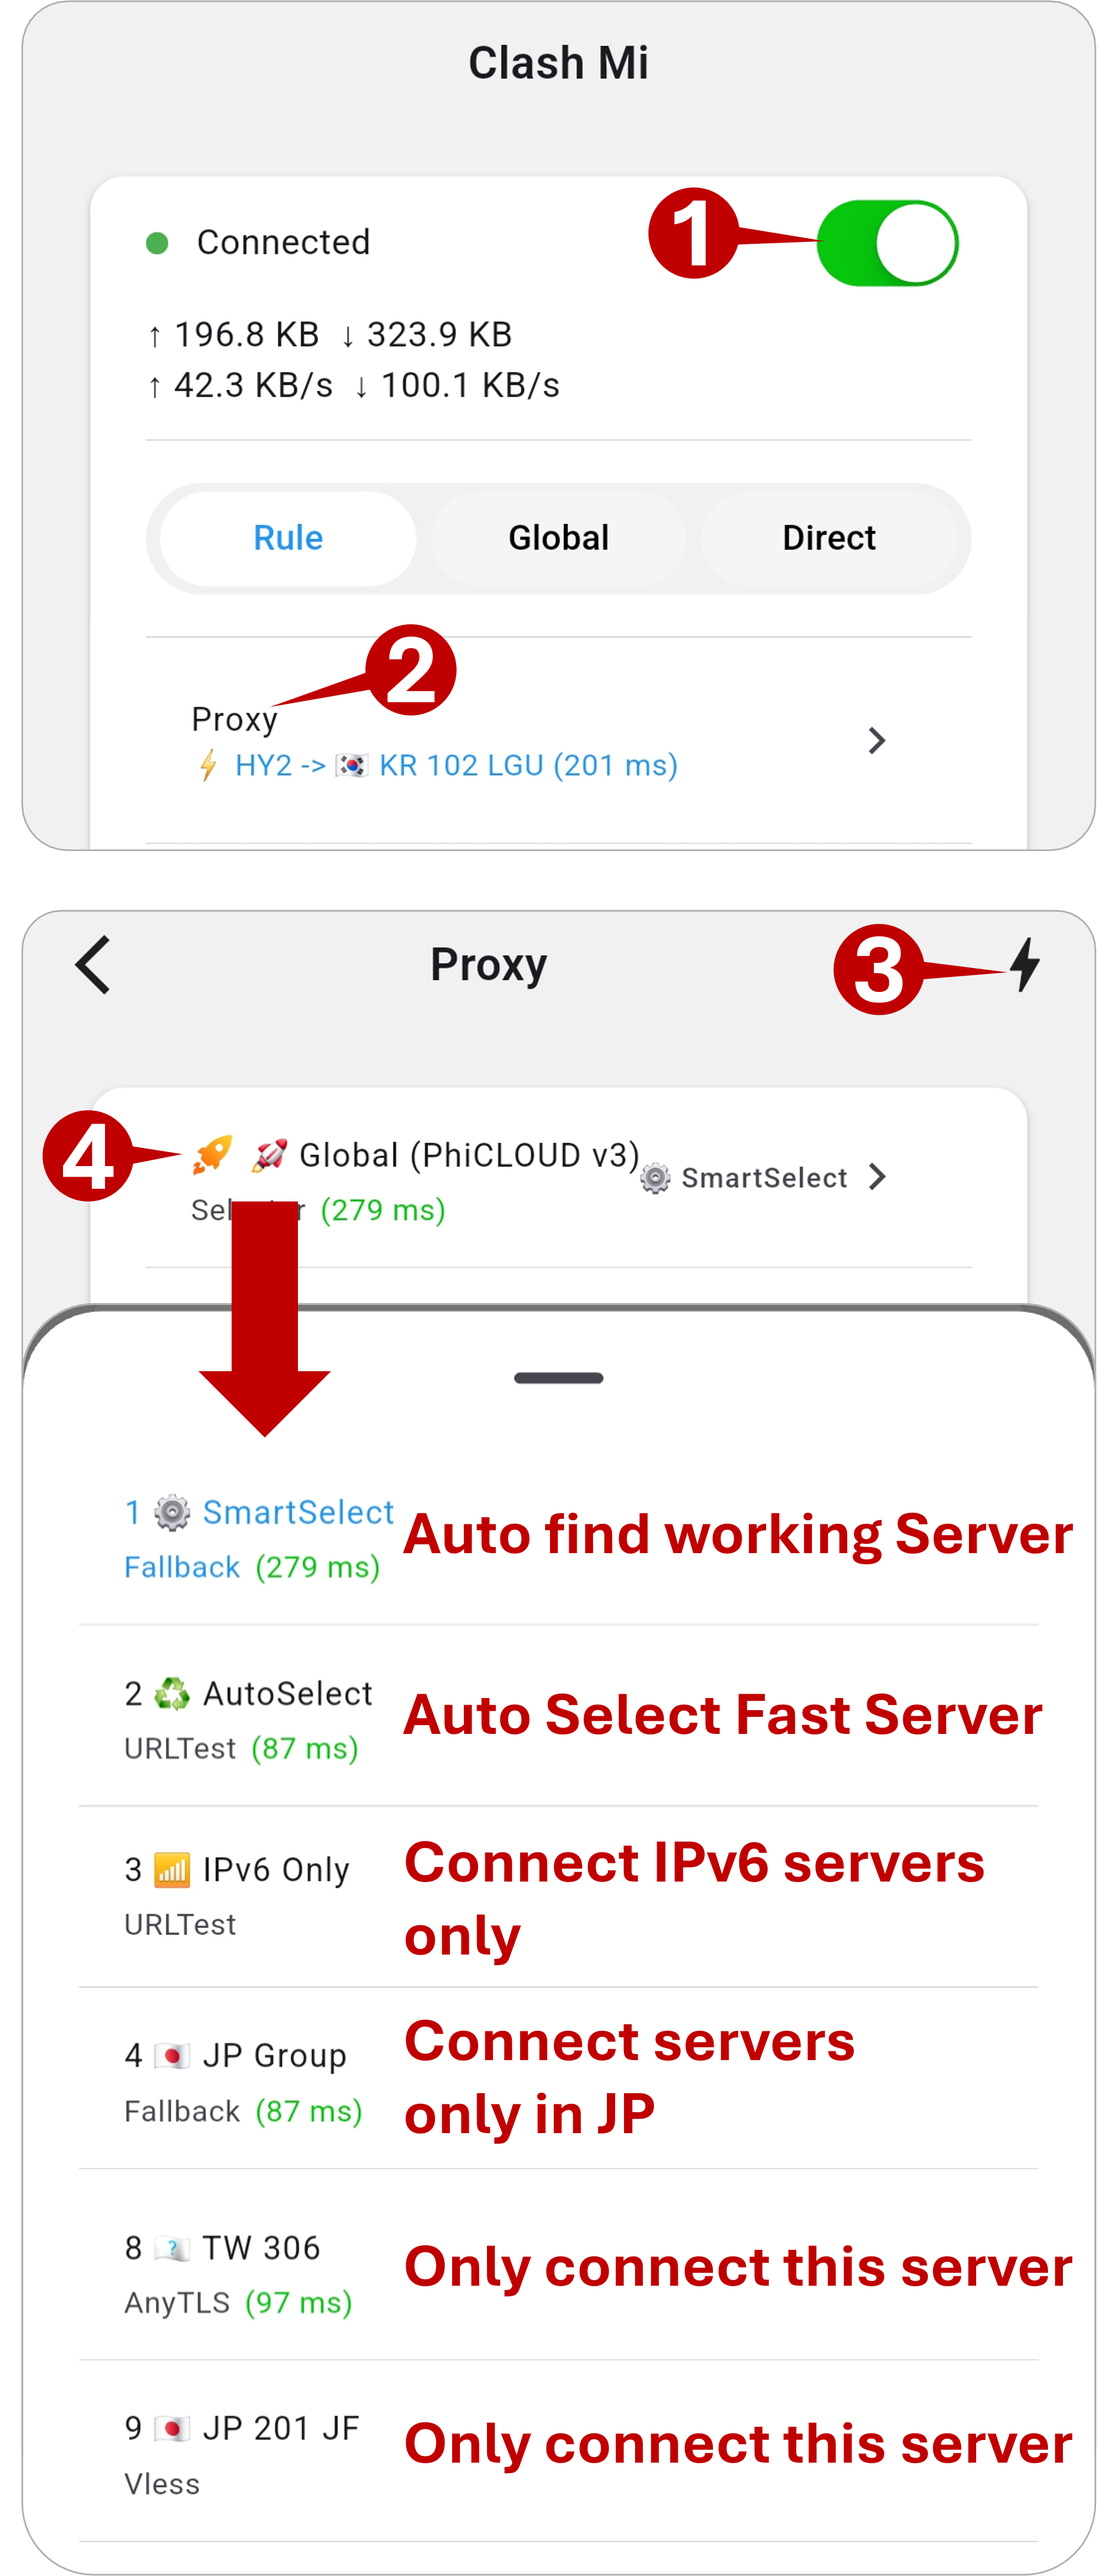
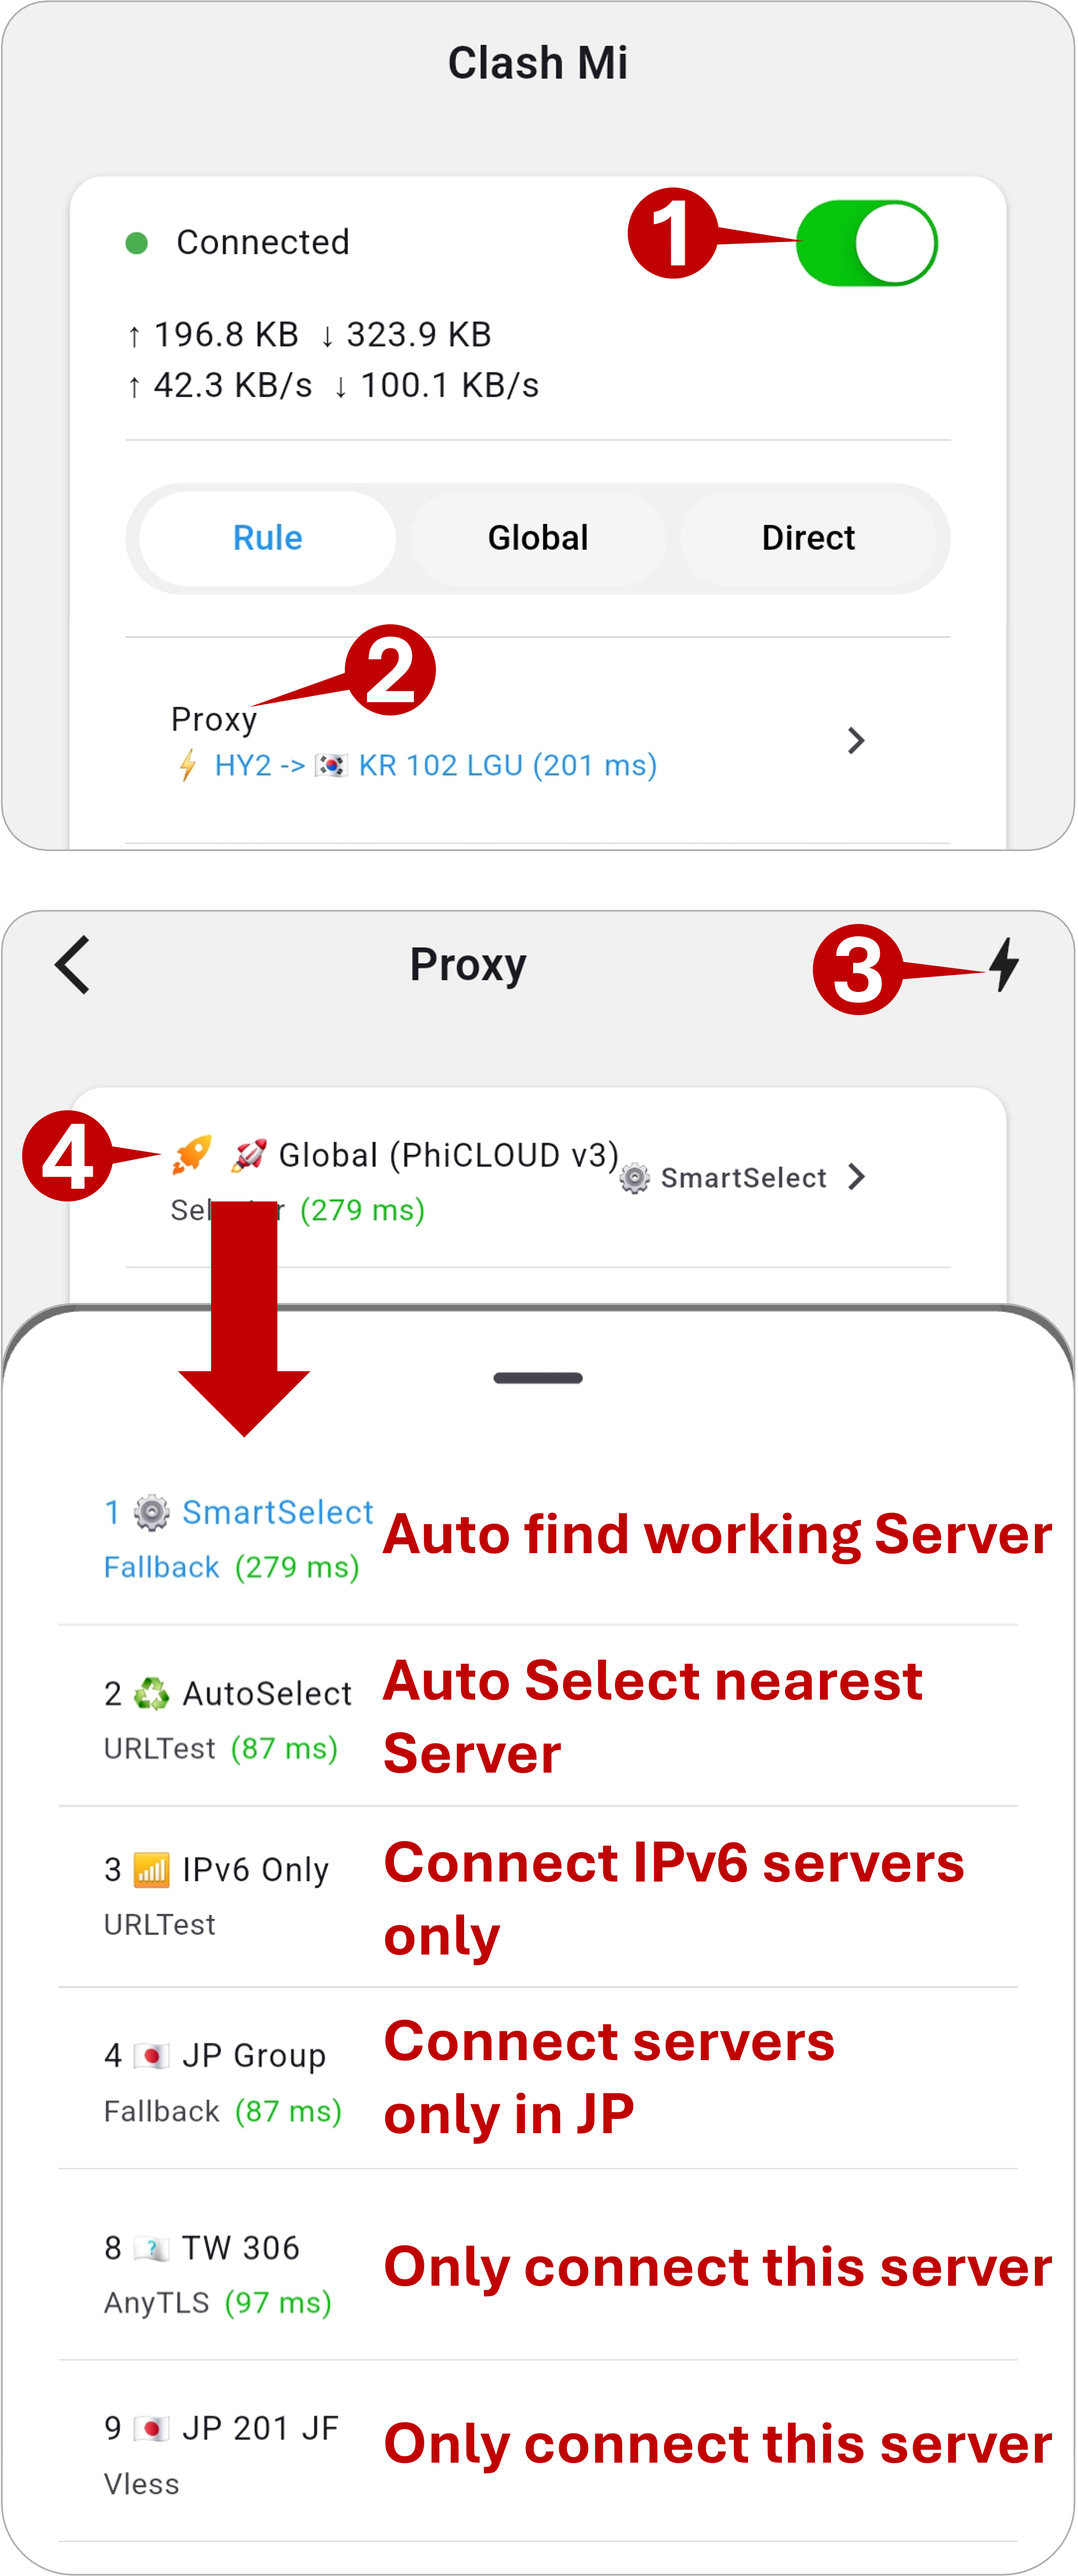
update

diff --git a/help_guide.html b/help_guide.html
@@ -142,7 +142,7 @@
 		const serverChangeBottomNoteText = `
 			<p>				
 				Notes: <br>
-				<b>TikTok</b> and <b>Ai services</b> <i style="font-size:15px;">(ChatGPT, Claude, Gemeini, etc.)</i> are <b style="color:#cb0000;">Not available</b> in <b>Hong Kong</b> <br>
+				<b>TikTok</b> and <b>Ai services</b> <i style="font-size:13px; color:inherit;">(ChatGPT, Claude, Gemeini, etc.)</i> are <b style="color:#cb0000;">Not Available</b> in <b>Hong Kong</b> <br>
 			</p>
 		`;
 
@@ -162,7 +162,7 @@
 								<ul class="no-dots-list">
 									<li>&nbsp;</li>
 									<li><b>⚙SmartSelect</b> –– Auto find working Server <b style="color:green;">(recommended)</b></li>	
-									<li><b>♻AutoSelect</b> ––– Auto select fast server</li>
+									<li><b>♻AutoSelect</b> ––– Auto select nearest server</li>
 									<li><b>📶IPv6 Group</b> ––– only connect IPv6 servers</li>
 									<li><b>Country Group</b> –– Connect server only in specific country</li>
 									<li><b>Country Server</b> –– only connect with one server</li>		
@@ -171,6 +171,7 @@
 									<li><b>Important Notes:</b></li>
 									<li><b>Manually selected server</b> will <b style="color:#cb0000;">not change</b> automatically.</li>
 									<li><b>TikTok</b>, <b>ChatGPT</b> and <b>Claude</b> are <b style="color:#cb0000;">not available</b> in <b>Hong Kong</b>.</li>
+									<li><b>TikTok</b> and <b>Ai services</b> <i style="font-size:13px; color:inherit;">(ChatGPT, Claude, Gemeini, etc.)</i> are <b style="color:#cb0000;">Not Available</b> in <b>Hong Kong</b></li>
 								</ul>
 							</div>
 						</details>
@@ -237,7 +238,7 @@
 								<ul class="no-dots-list">						
 									<li><b>Server Selection for ChatGPT/Claude/Gemini/Copilot only</b>:</li>
 									<li><b>US Group</b> –– <b style="color:green;">(recommended)</b></li>	
-									<li><b>♻AutoSelect</b> ––– Auto select fast available server</li>
+									<li><b>♻AutoSelect</b> ––– Auto select nearest server</li>
 									<li><b>Country Server</b> –– only connect with one server</li>						
 									<li>&nbsp;</li>
 									<li><b>Important Notes:</b></li>

diff --git a/app_guide.html b/app_guide.html
@@ -133,7 +133,7 @@
 								<ul class="no-dots-list">
 									<li>&nbsp;</li>
 									<li><b>⚙SmartSelect</b> –– Auto find working Server <b style="color:green;">(recommended)</b></li>	
-									<li><b>♻AutoSelect</b> ––– Auto select fast server</li>
+									<li><b>♻AutoSelect</b> ––– Auto select nearest server</li>
 									<li><b>📶IPv6 Only</b> –––– only connect IPv6 servers</li>
 									<li><b>Country Group</b> –– Connect server only in specific country</li>
 									<li><b>Country Server</b> –– only connect with one server</li>		
@@ -141,7 +141,7 @@
 									<li>&nbsp;</li>
 									<li><b>Important Notes:</b></li>
 									<li><b>Manually selected server</b> will <b style="color:#cb0000;">not change</b> automatically.</li>
-									<li><b>TikTok</b>, <b>ChatGPT</b> and <b>Claude</b> are <b style="color:#cb0000;">not available</b> in <b>Hong Kong</b>.</li>
+									<li><b>TikTok</b> and <b>Ai services</b> <i style="font-size:13px; color:inherit;">(ChatGPT, Claude, Gemeini, etc.)</i> are <b style="color:#cb0000;">Not Available</b> in <b>Hong Kong</b></li>
 								</ul>
 							</div>
 						</details>
